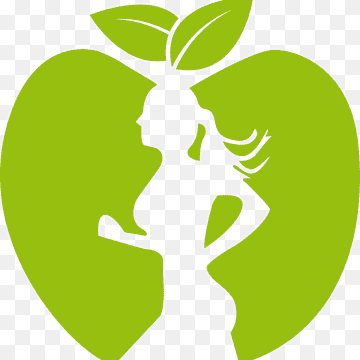
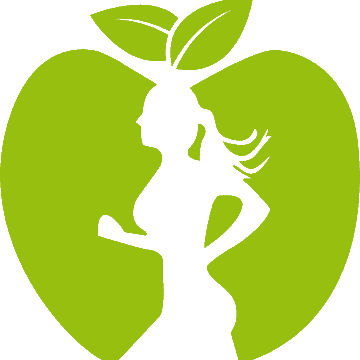
Icono cambiado

diff --git a/index.html b/index.html
@@ -4,9 +4,9 @@
     <meta charset="UTF-8">
     <meta name="viewport" content="width=device-width, initial-scale=1.0">
     <title>Nutri San</title>
-    <link rel="shorcut icon" href ="/assets/img/nutri4.png" type="image/x-icon">
-    <link rel="stylesheet" href="/Primera Pagina Diabetes/estilos.css">
-    <link rel="stylesheet" href="/Primera Pagina Diabetes/estilos/index.css">
+    <link rel="shorcut icon" href ="/assets/img/nutri.png" type="image/x-icon">
+    <link rel="stylesheet" href="/estilos.css">
+    <link rel="stylesheet" href="/estilos/index.css">
     
     
 </head>
